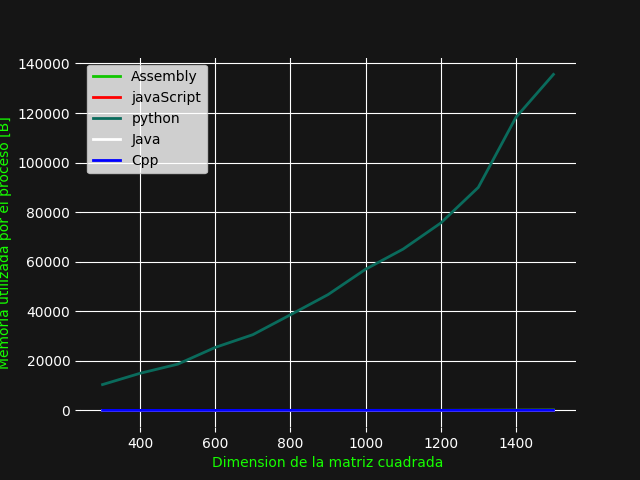
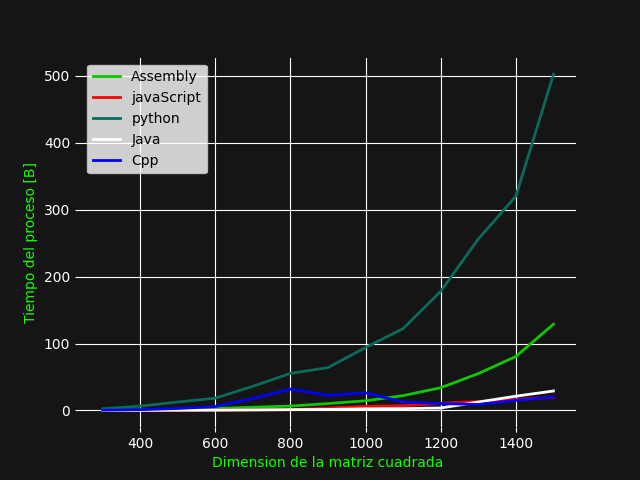
completed

diff --git a/results/graphResultsTime.py b/results/graphResultsTime.py
@@ -51,10 +51,10 @@ ax = plt.axes()
 
 
 plt.xlabel("Dimension de la matriz cuadrada",color= color2)
-plt.ylabel("Memoria utilizada por el proceso [B]",color =color2)
+plt.ylabel("Tiempo del proceso [B]",color =color2)
 plt.plot(dimensionAs,timeAs,color= color1, label = "Assembly")
 plt.plot(dimensionJs,timeJs,color = 'red', label = "javaScript")
-plt.plot(dimensionPy,memoryPy,color = '#0a6b5c', label = "python")
+plt.plot(dimensionPy,timePy,color = '#0a6b5c', label = "python")
 plt.plot(dimensionJava,timeJava,color = 'white', label = "Java")
 plt.plot(dimensionCpp,timeCpp,color = 'blue', label = "Cpp")
 
